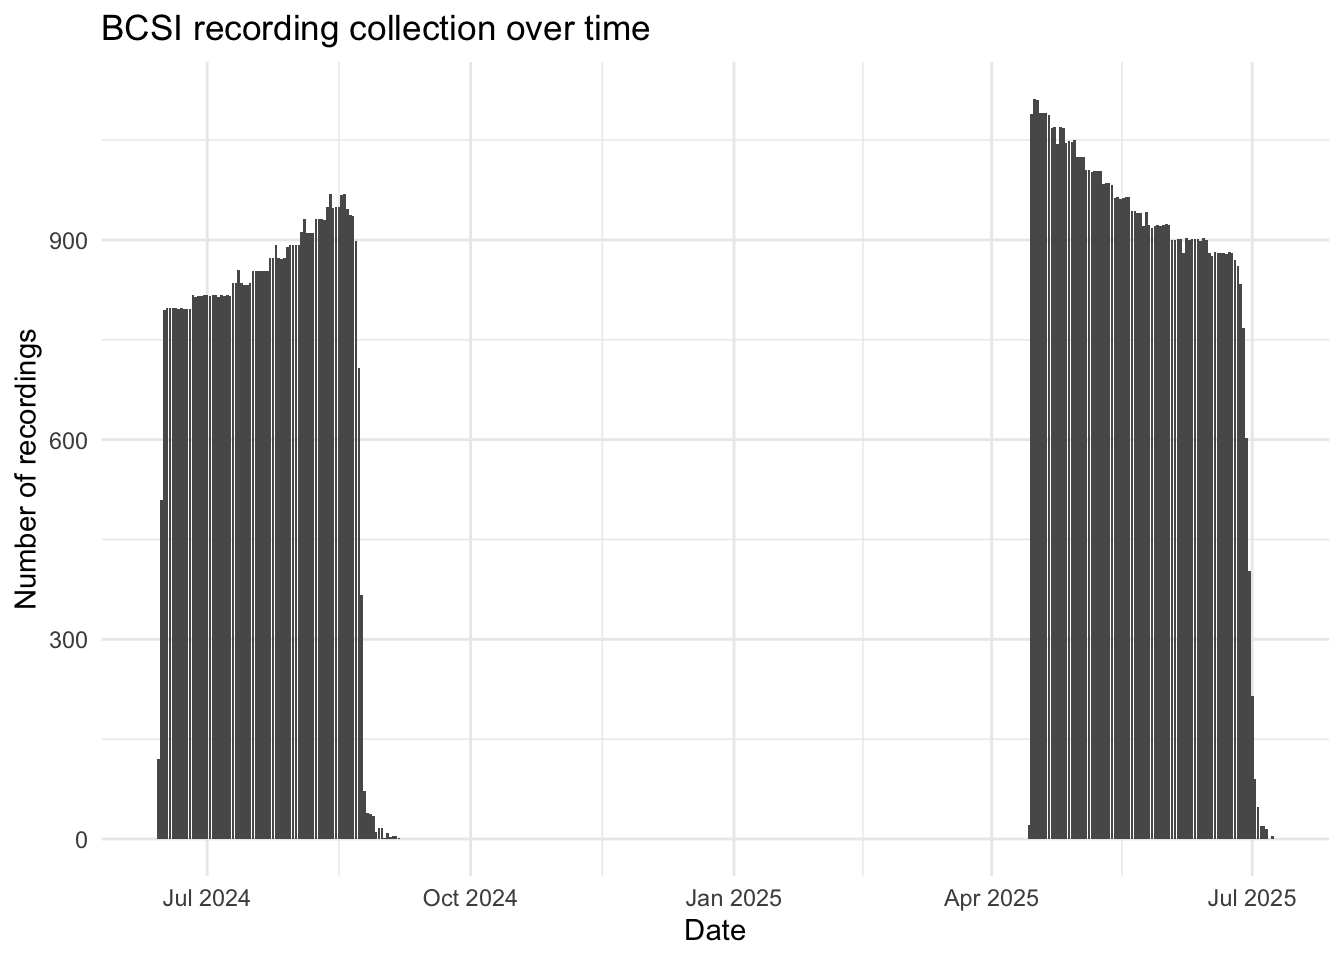
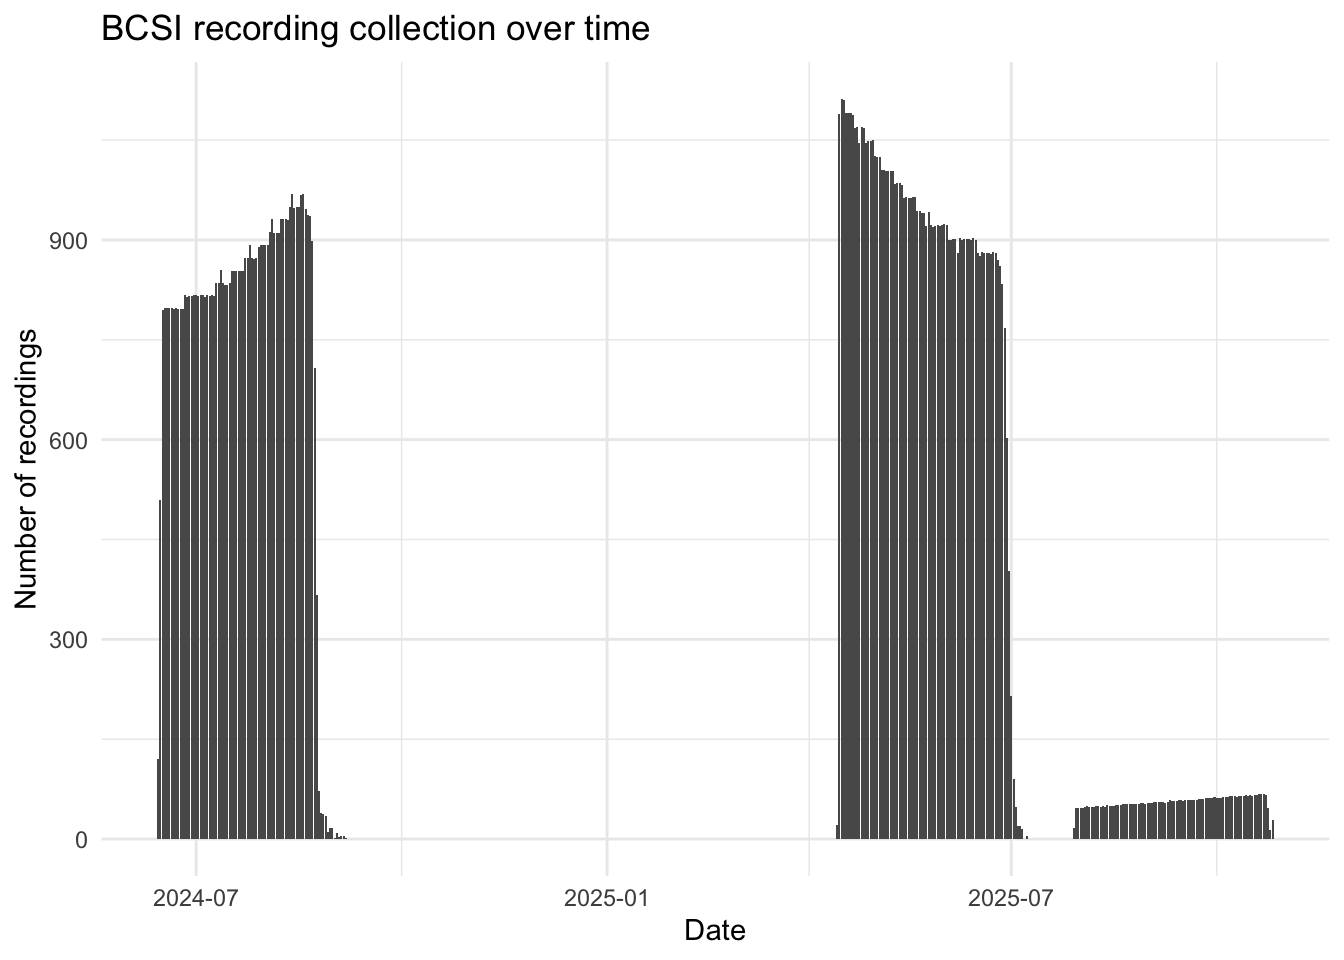
add 3rd data batch for recordings

diff --git a/lanz-and-cox.html b/lanz-and-cox.html
@@ -236,7 +236,7 @@ Note
 <h1>Methods</h1>
 <section id="data-collection" class="level2">
 <h2 class="anchored" data-anchor-id="data-collection">Data collection</h2>
-<p>ARUs were deployed in three stages between 2024 and 2025 across Lanz and Cox Islands (<a href="#fig-aru-monitoring-locations" class="quarto-xref">Figure&nbsp;1</a>), with the final data retrievals taking place in the winter of 2025-26. Sites were accessed via helicopter. Recordings were collected on a schedule of recording every five minutes every 15 minutes at 24000 Hz. A total of 134153 recordings were collected totalling 11,144 audio hours of data (<a href="#fig-bcsi-recs" class="quarto-xref">Figure&nbsp;2</a>).</p>
+<p>ARUs were deployed in three stages between 2024 and 2025 across Lanz and Cox Islands (<a href="#fig-aru-monitoring-locations" class="quarto-xref">Figure&nbsp;1</a>), with the final data retrievals taking place in the winter of 2025-26. Sites were accessed via helicopter. Recordings were collected on a schedule of recording every five minutes every 15 minutes at 24000 Hz. A total of 139146 recordings were collected totalling 11,559 audio hours of data (<a href="#fig-bcsi-recs" class="quarto-xref">Figure&nbsp;2</a>).</p>
 <div class="cell" data-layout-align="center">
 <div id="fig-aru-monitoring-locations" class="cell-output-display quarto-float quarto-figure quarto-figure-center anchored">
 <figure class="quarto-float quarto-float-fig figure">
@@ -746,7 +746,7 @@ Figure&nbsp;10: HawkEars 1.0.8 performance evaluation
 </section>
 <section id="hawkears-2.0" class="level3">
 <h3 class="anchored" data-anchor-id="hawkears-2.0">HawkEars 2.0</h3>
-<p>Initial runs of HawkEars 2.0 were conducted yielding a total 37393 recordings or 27.87 % of the total audio dataset were generated from the classification process with raw data visible in <a href="#fig-raw-he2" class="quarto-xref">Figure&nbsp;11</a>. Across all locations and classifier confidence score bins, MAMU consistently dominated the proportion of detections, particularly at higher confidence thresholds (0.75–1), where it accounted for the vast majority of hits at nearly all DC and DL sites. CAAU and COMU were the next most frequently detected species, contributing moderate proportions across the low-to-mid confidence bins (0–0.25 and 0.25–0.5), with their presence declining relative to MAMU as classifier confidence increased. ANMU appeared most prominently in the lower confidence bins at select DC locations, suggesting either lower detection certainty or lower site-level abundance. RHAU and TUPU were detected at notably lower proportions overall, with TUPU appearing sporadically at a handful of locations, most visibly at DC10 and DL12, predominantly in the lower confidence range. As classifier confidence increased toward the 0.75–1 bin, the community composition simplified considerably, with MAMU detections becoming overwhelmingly dominant and the contribution of other species diminishing across nearly all locations. This pattern suggests that higher-confidence classifier scores are selectively capturing MAMU calls with greater reliability, while lower-confidence bins reflect a broader and more uncertain mix of seabird vocalizations across the surveyed sites.</p>
+<p>Initial runs of HawkEars 2.0 were conducted yielding a total 37393 recordings or 26.87 % of the total audio dataset were generated from the classification process with raw data visible in <a href="#fig-raw-he2" class="quarto-xref">Figure&nbsp;11</a>. Across all locations and classifier confidence score bins, MAMU consistently dominated the proportion of detections, particularly at higher confidence thresholds (0.75–1), where it accounted for the vast majority of hits at nearly all DC and DL sites. CAAU and COMU were the next most frequently detected species, contributing moderate proportions across the low-to-mid confidence bins (0–0.25 and 0.25–0.5), with their presence declining relative to MAMU as classifier confidence increased. ANMU appeared most prominently in the lower confidence bins at select DC locations, suggesting either lower detection certainty or lower site-level abundance. RHAU and TUPU were detected at notably lower proportions overall, with TUPU appearing sporadically at a handful of locations, most visibly at DC10 and DL12, predominantly in the lower confidence range. As classifier confidence increased toward the 0.75–1 bin, the community composition simplified considerably, with MAMU detections becoming overwhelmingly dominant and the contribution of other species diminishing across nearly all locations. This pattern suggests that higher-confidence classifier scores are selectively capturing MAMU calls with greater reliability, while lower-confidence bins reflect a broader and more uncertain mix of seabird vocalizations across the surveyed sites.</p>
 <div class="cell" data-layout-align="center">
 <div id="fig-raw-he2" class="cell-output-display quarto-float quarto-figure quarto-figure-center anchored">
 <figure class="quarto-float quarto-float-fig figure">